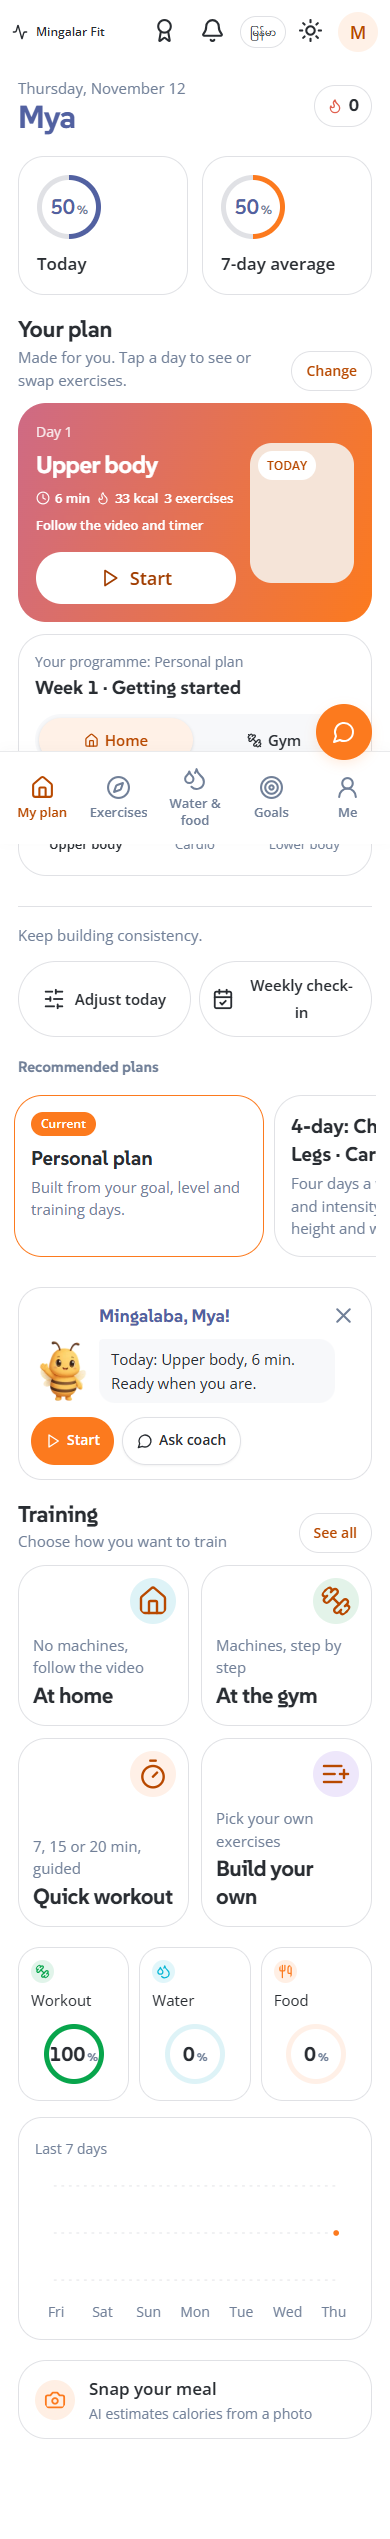
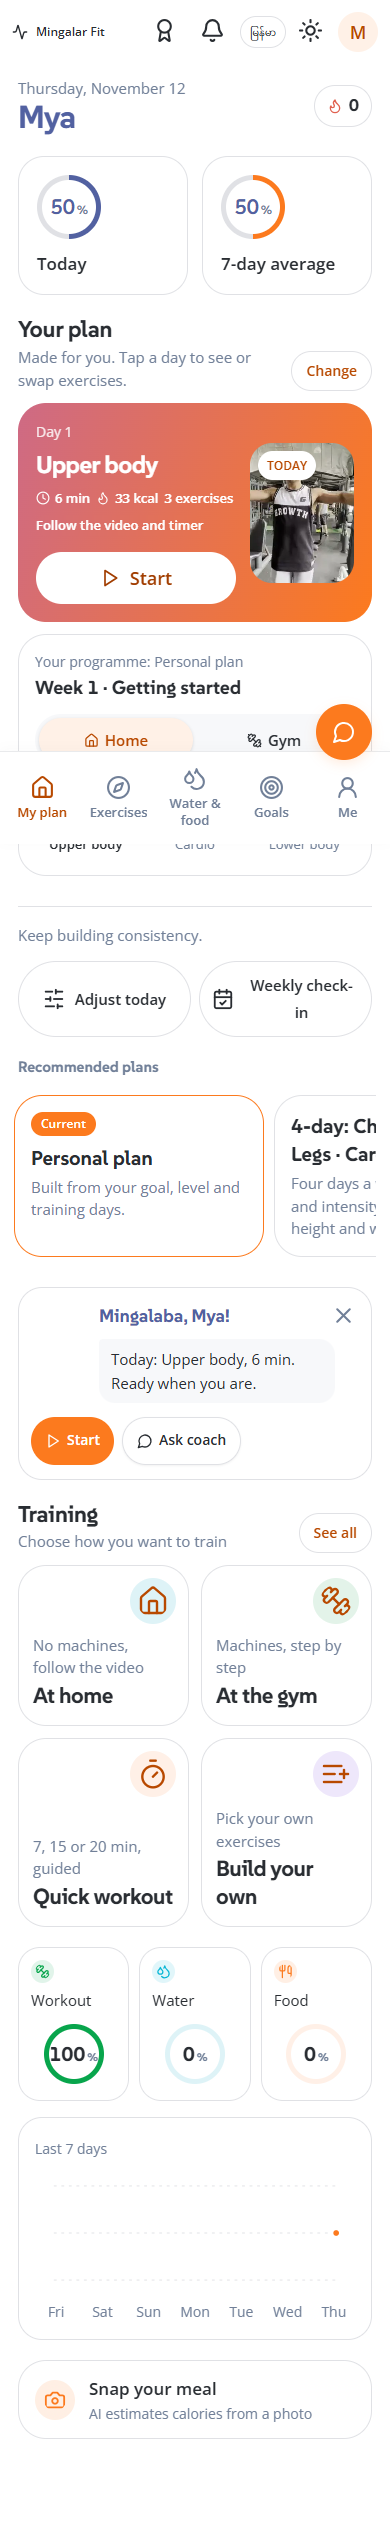
Batch catalog seeding and skip unchanged startup writes

Changed region(s): [[0.6154, 0.1556, 0.9231, 0.2489], [0.0923, 0.5289, 0.2154, 0.5601]]

diff --git a/prisma/seed.ts b/prisma/seed.ts
@@ -1,4 +1,4 @@
-import { PrismaClient } from '@prisma/client';
+import { PrismaClient, type Prisma } from '@prisma/client';
 import exercises from './exercises.json';
 import catalog from './exercise-catalog.json';
 import stepsEn from './exercise-steps.json';
@@ -18,11 +18,11 @@ const translations: Record<string, { name: string; instructions: string }> = {
   'dataset-3013': { name: 'Glute bridge — တင်ပါးမြှောက်ခြင်း', instructions: 'ဒူးကွေးပြီး ခြေထောက်ကို မြေပြင်တွင် ထားပါ။ တင်ပါးကို ဖြည်းဖြည်းမြှောက်ပြီး ပြန်ချပါ။ ခါးကို လွန်ကဲစွာ မကော့ပါနှင့်။' },
   'core-157': { name: 'Barbell reverse lunges — နောက်ဆုတ်ခြေလှမ်း', instructions: 'ဘားကို ပခုံးနောက်တွင် ထိန်းထားပြီး ခြေတစ်ဖက် နောက်သို့ ဆုတ်ပါ။ ဒူးကို ဖြည်းဖြည်းကွေးပြီး မူလအနေအထားသို့ ပြန်ထပါ။ ဘားမပါဘဲ လှုပ်ရှားမှုကို အရင်လေ့လာပါ။' },
 };
-async function main() {
+async function main(db: Prisma.TransactionClient) {
   for (const exercise of exercises) {
-    await prisma.exercise.upsert({ where: { id: exercise.id }, create: exercise, update: {} });
+    await db.exercise.upsert({ where: { id: exercise.id }, create: exercise, update: {} });
     const translation = translations[exercise.id];
-    if (translation) await prisma.exerciseTranslation.upsert({ where: { exerciseId_locale: { exerciseId: exercise.id, locale: 'my-MM' } },
+    if (translation) await db.exerciseTranslation.upsert({ where: { exerciseId_locale: { exerciseId: exercise.id, locale: 'my-MM' } },
       create: { exerciseId: exercise.id, locale: 'my-MM', ...translation, reviewStatus: 'provisional' }, update: {} });
   }
   for(const entry of catalog){
@@ -38,9 +38,13 @@ async function main() {
     const mistakes=pair(base.commonMistakes,(mistakesMy as Record<string,{mistakes:string[]}>)[id]?.mistakes);
     const guidance=g?{perSide:g.perSide,home:pair(g.home,gm?.home),gym:pair(g.gym,gm?.gym),mistakes}:{mistakes};
     const data={...base,...mediaFields,steps,guidance};
-    await prisma.exercise.upsert({where:{id},create:{id,...data,normalizedName:data.name.toLowerCase(),muscles:data.primaryMuscles,source:'mingalar-curation',sourceId:data.canonicalId,sourceUrl:'',dataLicense:'Original curated text',attribution:'Mingalar Fit curated movement metadata'},update:{...data,muscles:data.primaryMuscles}});
-    if(my)await prisma.exerciseTranslation.upsert({where:{exerciseId_locale:{exerciseId:id,locale:'my-MM'}},create:{exerciseId:id,locale:'my-MM',name:my.name,instructions:my.steps.join(' '),reviewStatus:'provisional'},update:{name:my.name,instructions:my.steps.join(' '),reviewStatus:'provisional'}});
+    await db.exercise.upsert({where:{id},create:{id,...data,normalizedName:data.name.toLowerCase(),muscles:data.primaryMuscles,source:'mingalar-curation',sourceId:data.canonicalId,sourceUrl:'',dataLicense:'Original curated text',attribution:'Mingalar Fit curated movement metadata'},update:{...data,muscles:data.primaryMuscles}});
+    if(my)await db.exerciseTranslation.upsert({where:{exerciseId_locale:{exerciseId:id,locale:'my-MM'}},create:{exerciseId:id,locale:'my-MM',name:my.name,instructions:my.steps.join(' '),reviewStatus:'provisional'},update:{name:my.name,instructions:my.steps.join(' '),reviewStatus:'provisional'}});
   }
-  console.log(JSON.stringify({seeded:catalog.length,demoVideos:new Set([...Object.keys(media as Record<string,MediaEntry>).filter(k=>(media as Record<string,MediaEntry>)[k].videoUrl),...Object.keys(wgerMedia)]).size,steps:Object.keys(stepsEn).length,provisionalMyanmar:Object.keys(translations).length}));
+  return {seeded:catalog.length,demoVideos:new Set([...Object.keys(media as Record<string,MediaEntry>).filter(k=>(media as Record<string,MediaEntry>)[k].videoUrl),...Object.keys(wgerMedia)]).size,steps:Object.keys(stepsEn).length,provisionalMyanmar:Object.keys(translations).length};
 }
-main().finally(() => prisma.$disconnect());
+// One commit instead of hundreds of fsyncs on the remote SQLite Volume.
+const startedAt = Date.now();
+prisma.$transaction(db => main(db), { timeout: 120000 })
+  .then(result => console.log(JSON.stringify({ ...result, durationMs: Date.now() - startedAt })))
+  .finally(() => prisma.$disconnect());

diff --git a/infrastructure/modal/app.py b/infrastructure/modal/app.py
@@ -39,6 +39,7 @@ image = (modal.Image.from_registry('node:22-bookworm-slim', add_python='3.12')
 @modal.web_server(3000, startup_timeout=180, label='myanmar-fitness-coach')
 def web():
     import os
+    import hashlib
     import secrets
     import sqlite3
     import subprocess
@@ -66,7 +67,18 @@ def web():
                     connection.backup(backup)
                 volume.commit()
     subprocess.run(['npm', 'run', 'db:migrate'], cwd='/app', check=True)
-    subprocess.run(['npm', 'run', 'db:seed'], cwd='/app', check=True)
+    # Seed only when curated source changes. Customer records are never part of this hash.
+    digest = hashlib.sha256()
+    for source in [Path('/app/prisma/seed.ts'), *sorted(Path('/app/prisma').glob('*.json'))]:
+        digest.update(source.name.encode())
+        digest.update(source.read_bytes())
+    seed_version = digest.hexdigest()
+    seed_stamp = Path('/data/catalog-seed.sha256')
+    if not seed_stamp.exists() or seed_stamp.read_text().strip() != seed_version:
+        subprocess.run(['npm', 'run', 'db:seed'], cwd='/app', check=True)
+        seed_stamp.write_text(seed_version)
+    else:
+        print('Curated catalog unchanged; skipping seed.', flush=True)
     volume.commit()
     class CommitHandler(BaseHTTPRequestHandler):
         def do_POST(self):

diff --git a/docs/RELEASE_2026_11_12.md b/docs/RELEASE_2026_11_12.md
@@ -17,4 +17,8 @@ Guided training has ten-second preparation, paused countdown/rest behind the exi
 - PASS: live browser signup through the complete illustrated intake, review edit, Myanmar at 320px, saved preferences and reload; 8 checks, no page errors/overflow. Paid-generation endpoints were blocked in the browser test. Missing workout images use an explicit equipment icon fallback.
 - Evidence: `evidence/adaptive-release/`. Detailed commands: TESTING_GUIDE.md.
 
+Startup follow-up: exercise seeding now commits once and skips unchanged inputs using a durable source hash. Real Volume seed completed in 2594ms; schema, backup integrity and persisted stamp were verified from a read-only container. Full tests/locales/build passed again. A stale Modal retry URL caused an earlier navigation failure; final checks use the clean canonical URL.
+
+Final live follow-up PASS: existing account and week retained after redeploy, adaptive plan available, workout image decoded, zero overflow/page errors. The browser check took 21.42s including reload, image decoding, screenshot and an extra plan API request; this is not a pure cold-start benchmark. Modal/Volume request latency remains a POC limitation.
+
 NOT TESTED: physical devices, fluent Myanmar translation/speech approval, paid model/TTS generation, clinical efficacy. Existing low-resolution clips are unreviewed demos; verified licensing is separate from technique approval. The new media checklist is a production backlog. Longer synchronized trainer videos require the owner's production assets. Modal is a temporary POC with cold-start/Volume latency; this is not a production scaling or disaster-recovery guarantee.

diff --git a/docs/DEPLOYMENT.md b/docs/DEPLOYMENT.md
@@ -6,6 +6,10 @@ One Next.js application exposes frontend and APIs at one HTTPS endpoint. Better 
 
 After each acknowledged write the server calls an authenticated loopback-only infrastructure bridge; it commits the Volume before returning success. Migrations and idempotent seed run before the web server starts. SQLite uses DELETE journaling. The Python adapter only launches Next.js and commits storage; it is not a second product backend.
 
+Catalog seeding runs in one Prisma transaction. Startup hashes `prisma/seed.ts` plus the curated JSON inputs and persists `/data/catalog-seed.sha256` only after successful seeding; unchanged source skips future seeds. The stamp and database are committed before serving. This avoids hundreds of separate Volume fsyncs on every cold start; it never includes or resets customer records. A changed catalog still reseeds atomically.
+
+Use the clean canonical URL after a redeploy. Modal can leave an internal retry query in the address bar after a cold navigation; reloading a query tied to a replaced function can yield an invalid-function-call page. Never save/share that internal query in handover evidence.
+
 **Stop this app before redeploying it.** Never perform rolling deployments with overlapping SQLite writers. Do not increase container count. Use PostgreSQL before horizontal scaling. Volume persistence is not an independent backup; scheduled backups and restore drills remain future work.
 
 From the workspace root, using the configured Python 3.12:

diff --git a/docs/TESTING_GUIDE.md b/docs/TESTING_GUIDE.md
@@ -19,6 +19,8 @@ ffprobe -v error -show_entries format=duration,size -of json public/audio/carefr
 
 PASS: 76 tests / 20 files. New checks cover adaptation, repeated plan reads, idempotent weekly close, owner isolation/injected identity, actual rep completion, warm-up exclusion, missing RIR, two-session load confirmation and protection/equipment filters. The expected invalid-OAuth-state test logs a rejected state; this is not a failed authentication test.
 
+After a post-deploy cold-navigation timeout, startup seeding was batched into one transaction and gated by a persisted source hash. Fresh and repeated disposable seeds both retained 62 exercises / 36 demos (211ms / 207ms); the full 76 tests, locale contracts and production build passed again. Actual customer-Volume seed took 2594ms. Separate read-only verification confirms the persisted seed stamp matches source, both new schema columns exist, and the pre-release backup has integrity `ok`. These are seed timings, not promises about complete cold HTTP startup. Browser follow-up navigates a clean canonical URL to discard stale provider retry queries.
+
 Browser uses the existing Playwright CLI with Microsoft Edge (no new test runner). From the workspace root:
 
 ```powershell
